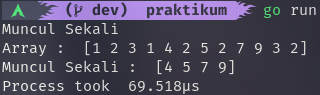
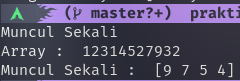
perbaikan tugas praktikum pada section 5 dan 6.

diff --git a/5_Time Complexity and Space Complexity/praktikum/prima/prima.go b/5_Time Complexity and Space Complexity/praktikum/prima/prima.go
@@ -7,15 +7,12 @@ import (
 
 func primeNum(n int) bool {
 
-	if n < 2 {
-		return false
+	if n == 2 {
+		return true 
 	}
 
-
-	for i := 3; i < (n / i); i+=3 {
-		if n % i == 0 {
-			return false
-		}
+	if n < 2 || (n % 2 == 0) || (n % 5 == 0) || (n % 3 == 0) {
+		return false
 	}
 
 	return true
@@ -25,7 +22,9 @@ func primeNum(n int) bool {
 func main() {
 	start := time.Now()
 	fmt.Println("Tes Bilangan Prima")
-	fmt.Println("1000000007 ? ", primeNum(1000000007))
+	fmt.Println("1500450271 ? ", primeNum(1500450271))
+	fmt.Println("15 ? ", primeNum(15))
+	fmt.Println("27 ? ", primeNum(27))
 	elpased := time.Since(start)
 	fmt.Printf("Process took %s\n", elpased)
 }

diff --git a/6_Data Structure/praktikum/array_merge/array_merge.go b/6_Data Structure/praktikum/array_merge/array_merge.go
@@ -1,9 +1,6 @@
 package main
 
-import (
-	"fmt"
-	"time"
-)
+import "fmt"
 
 func merge(arr1, arr2 []string) []string {
 	var arr []string = append(arr1, arr2...)
@@ -21,7 +18,6 @@ func merge(arr1, arr2 []string) []string {
 }
 
 func main() {
-	start := time.Now()
 	fmt.Println("Array Merge")
 
 	arr1 := []string{"kazuya", "rikka", "hazama"}
@@ -29,6 +25,4 @@ func main() {
 	fmt.Println("Array 1 : ", arr1)
 	fmt.Println("Array 2 : ", arr2)
 	fmt.Println("Merged Array : ", merge(arr1, arr2))
-	elpased := time.Since(start)
-	fmt.Println("Process took ", elpased)
 }

diff --git a/6_Data Structure/praktikum/pair_sum/pair_sum.go b/6_Data Structure/praktikum/pair_sum/pair_sum.go
@@ -1,9 +1,6 @@
 package main
 
-import (
-	"fmt"
-	"time"
-)
+import "fmt"
 
 func pair_sum(arr []int, target int) []int {
 	left := 0
@@ -24,7 +21,6 @@ func pair_sum(arr []int, target int) []int {
 }
 
 func main() {
-	start := time.Now()
 	fmt.Println("Pair Sum")
 	
 	arr := []int{2, 5, 9, 11}
@@ -34,7 +30,4 @@ func main() {
 
 	pair := pair_sum(arr, target)
 	fmt.Println("Pair Sum : ", pair)
-
-	elpased := time.Since(start)
-	fmt.Println("Process took ", elpased)
 }

diff --git a/6_Data Structure/praktikum/muncul_sekali/muncul_sekali.go b/6_Data Structure/praktikum/muncul_sekali/muncul_sekali.go
@@ -3,7 +3,6 @@ package main
 import (
 	"fmt"
 	"strconv"
-	"time"
 )
 
 func merge(num string) []int {
@@ -48,11 +47,8 @@ func findAndDelete(arr []int, item int) []int {
 }
 
 func main() {
-	start := time.Now()
 	fmt.Println("Muncul Sekali")
 	arr := "12314527932"
 	fmt.Println("Array : ", arr)
 	fmt.Println("Muncul Sekali : ", merge(arr))
-	elpased := time.Since(start)
-	fmt.Println("Process took ", elpased)
 }

diff --git a/5_Time Complexity and Space Complexity/praktikum/eksponen/eksponen.go b/5_Time Complexity and Space Complexity/praktikum/eksponen/eksponen.go
@@ -6,11 +6,14 @@ import (
 )
 
 func pangkat(x, y int) int {
-	if y > 1 {
-		return (x*(pangkat(x, y-1)))
-	} else {
-		return x
+	res := 1
+	for i := y; i > 0; i /= 2 {
+		if (i % 2 == 1) {
+			res = res * x
+		}
+		x *= x
 	}
+	return res
 }
 
 func main() {

diff --git a/5_Time Complexity and Space Complexity/Readme.md b/5_Time Complexity and Space Complexity/Readme.md
@@ -8,12 +8,3 @@ materi kelima adalah Time Complexity and Space Complexity, dimana kita belajar t
 
 ### Exponentiation ([kode](./praktikum/eksponen/eksponen.go))
 ![exponentiation](./screenshots/exponen.png)
-
-### Array Merge ([kode](./praktikum/array_merge/array_merge.go))
-![array merge](./screenshots/array-merge.png)
-
-### Pair Sum ([kode](./praktikum/pair_sum/pair_sum.go))
-![pair sum](./screenshots/pair-sum.png)
-
-### Muncul Sekali ([kode](./praktikum/muncul_sekali/muncul_sekali.go))
-![muncul sekali](./screenshots/muncul-sekali.png)

diff --git a/6_Data Structure/Readme.md b/6_Data Structure/Readme.md
@@ -3,12 +3,6 @@ materi keenam adalah Data Structure, dimana kita belajar tentang bagaimana memil
 
 ## Hasil Praktikum
 
-### Bilangan Prima ([kode](./praktikum/prima/prima.go))
-![bilangan prima](./screenshots/prima.png)
-
-### Exponentiation ([kode](./praktikum/eksponen/eksponen.go))
-![exponentiation](./screenshots/exponen.png)
-
 ### Array Merge ([kode](./praktikum/array_merge/array_merge.go))
 ![array merge](./screenshots/array-merge.png)
 
